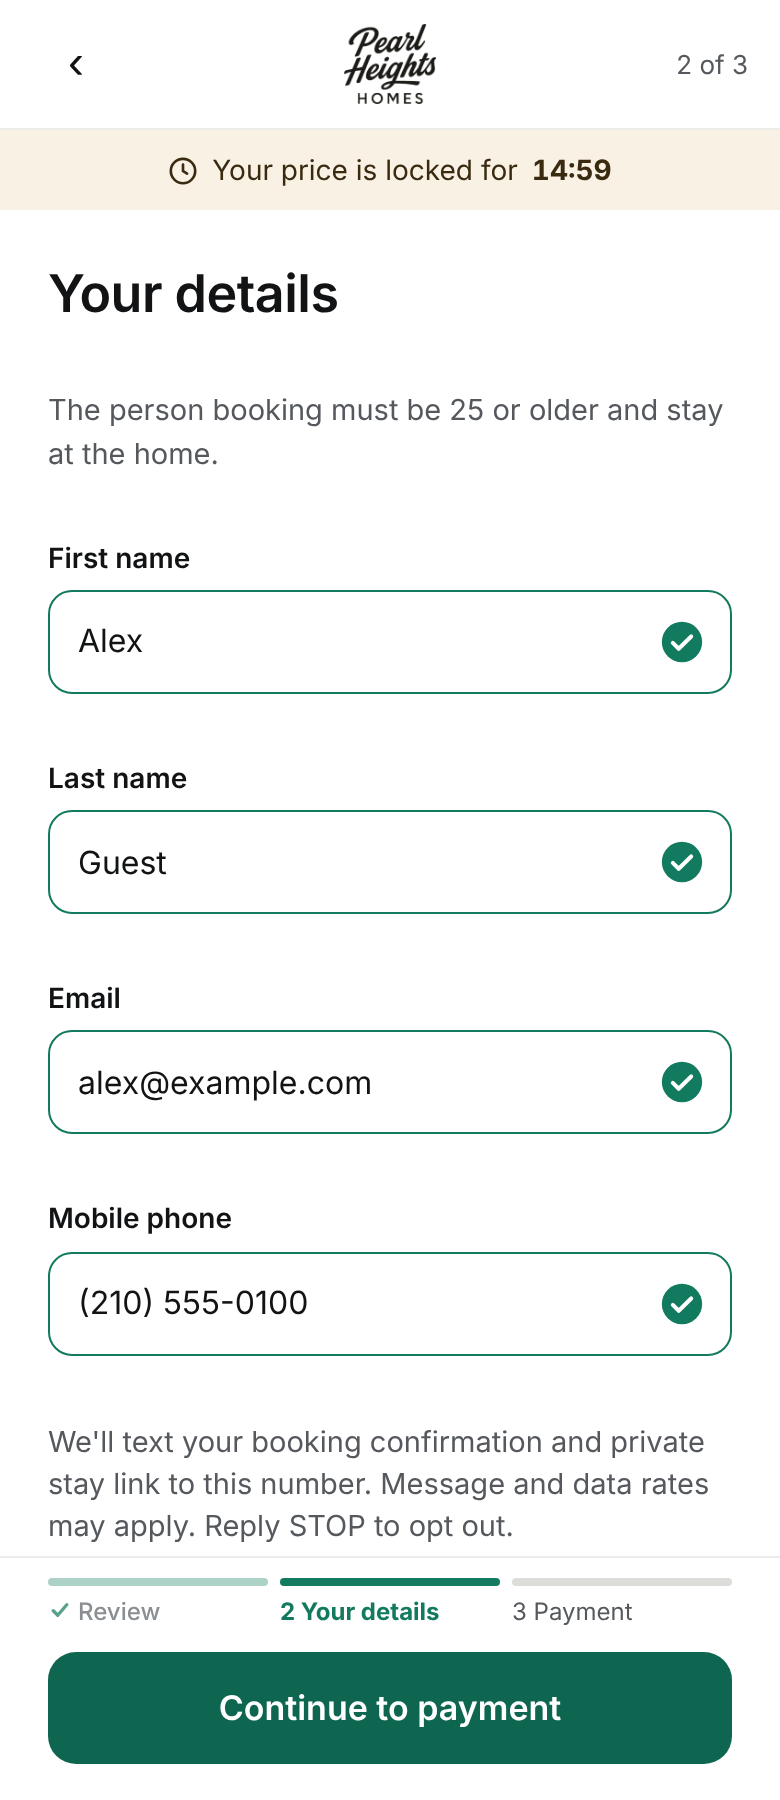
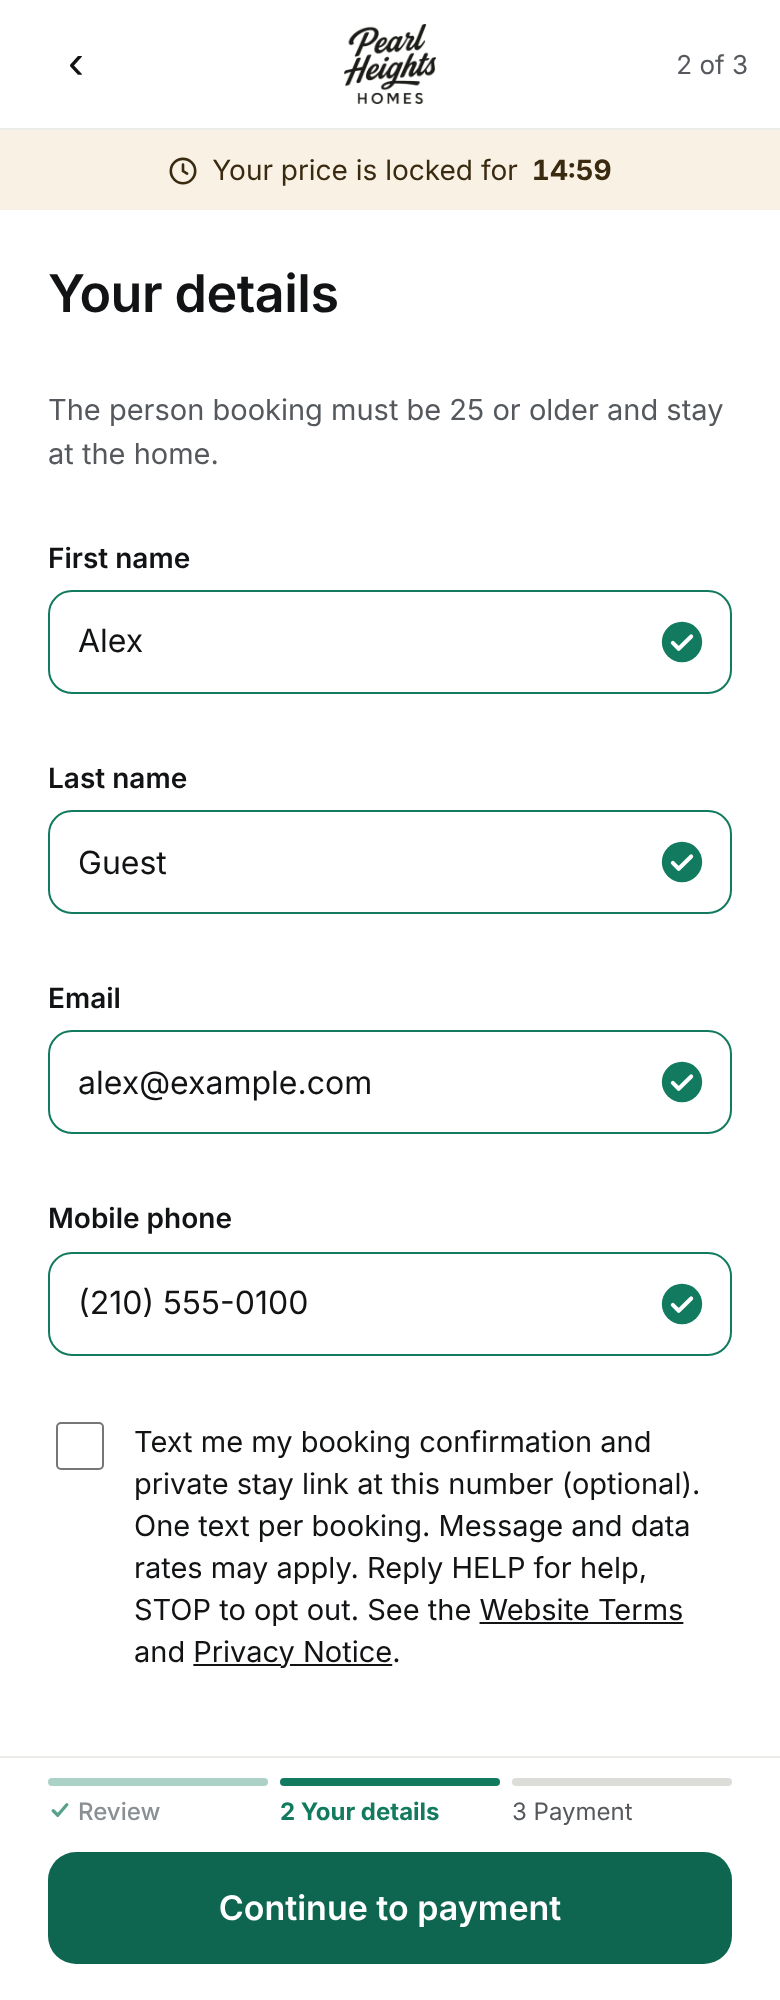
Booking-text consent: unchecked checkbox on the details step; text sent only when ticked; opt-in screenshots (unchecked + checked)
Claude-Session: https://claude.ai/code/session_01ThwDwm9rSEYysYBPnadMwk

diff --git a/app/page.tsx b/app/page.tsx
@@ -74,6 +74,8 @@ export default function Checkout() {
   // opt-out, every email carries an unsubscribe link). Texts stay unchecked: TCPA needs a clear written opt-in.
   const [mktEmail, setMktEmail] = useState(true);
   const [mktSms, setMktSms] = useState(false);
+  // Booking text consent (Twilio toll-free verification, Nov 18): unchecked; the confirmation text goes only to guests who tick it.
+  const [textConfirm, setTextConfirm] = useState(false);
   const [sim, setSim] = useState("none");
   const [err, setErr] = useState("");
   const [busy, setBusy] = useState(false);
@@ -224,7 +226,7 @@ export default function Checkout() {
       if (pm.error || !pm.id) { setBusy(false); setPayErr({ msg: pm.error ?? "Please check your card details.", change: true }); return; }
       paymentMethodId = pm.id;
     }
-    const r = await fetch("/api/checkout", { method: "POST", body: JSON.stringify({ property: home, checkIn: ci, checkOut: co, adults, children, infants, payPlan: quote.plan.split ? "split" : "full", guest, agreed, consentId: CONSENT_ID, marketingEmail: mktEmail, marketingSms: mktSms, acceptedTotal: quote.total, quoteId, attemptKey: crypto.randomUUID(), simulate: sim, paymentMethodId,
+    const r = await fetch("/api/checkout", { method: "POST", body: JSON.stringify({ property: home, checkIn: ci, checkOut: co, adults, children, infants, payPlan: quote.plan.split ? "split" : "full", guest, agreed, consentId: CONSENT_ID, marketingEmail: mktEmail, marketingSms: mktSms, textConfirmation: textConfirm, acceptedTotal: quote.total, quoteId, attemptKey: crypto.randomUUID(), simulate: sim, paymentMethodId,
       analytics: { consent: cookieConsent() === "granted", attribution: attribution(), ...metaBrowserIds(), url: location.href } }) });
     const j = await r.json().catch(() => ({}));
     setBusy(false);
@@ -247,7 +249,7 @@ export default function Checkout() {
 
   function restart() {
     setStep("review"); setCi(null); setCo(null); setQuote(null); setResult(null); setErr(""); setAgreed(false); setPlan("full");
-    setGuest({ firstName: "", lastName: "", email: "", phone: "" }); setMktEmail(true); setMktSms(false); setCalVersion((v) => v + 1);
+    setGuest({ firstName: "", lastName: "", email: "", phone: "" }); setMktEmail(true); setMktSms(false); setTextConfirm(false); setCalVersion((v) => v + 1);
   }
   // Same rules as the submit check; also drives the green check shown in each valid field (Oscar, Nov 17).
   const fieldOk = (k: "firstName" | "lastName" | "email" | "phone") =>
@@ -469,7 +471,8 @@ export default function Checkout() {
                   onChange={(e) => { setGuest({ ...guest, [k]: e.target.value }); if (fieldErr[k]) setFieldErr({ ...fieldErr, [k]: undefined }); }} />
                 {fieldOk(k) && !fieldErr[k] && <svg className="okIc" viewBox="0 0 24 24" width="22" height="22" aria-hidden="true"><circle cx="12" cy="12" r="11" fill="#127A5E" /><path d="m7 12.5 3.2 3.2L17 9" fill="none" stroke="#fff" strokeWidth="2.2" strokeLinecap="round" strokeLinejoin="round" /></svg>}</span>
                 {fieldErr[k] && <span id={k + "-err"} className="err">{fieldErr[k]}</span>}</label>))}
-            <div className="muted">We'll text your booking confirmation and private stay link to this number. Message and data rates may apply. Reply STOP to opt out.</div>
+            <label className="chk" data-optin="booking-text"><input type="checkbox" checked={textConfirm} onChange={(e) => setTextConfirm(e.target.checked)} />
+              <span>Text me my booking confirmation and private stay link at this number (optional). One text per booking. Message and data rates may apply. Reply HELP for help, STOP to opt out. See the <a href={POLICY_LINKS.websiteTerms} target="_blank" rel="noopener">Website Terms</a> and <a href={POLICY_LINKS.privacy} target="_blank" rel="noopener">Privacy Notice</a>.</span></label>
           </>)}
 
           {step === "pay" && quote && (<>

diff --git a/app/api/checkout/route.ts b/app/api/checkout/route.ts
@@ -53,10 +53,11 @@ export async function POST(req: Request) {
     if ((view as { ok?: boolean }).ok) {
       const ref = (view as { bookingRef?: string }).bookingRef ?? bookingRef;
       await afterBooking(req, b, input, q.quote, ref);
-      // Booking confirmation by text (Oscar, Nov 18). Off until GUEST_TEXTS=on + Twilio settings; never blocks.
+      // Booking confirmation by text (Oscar, Nov 18). Only when the guest ticked the box on the details step (Twilio
+      // toll-free verification requires an unchecked consent box). Off until GUEST_TEXTS=on + Twilio settings; never blocks.
       const db = getDb();
       const deadline = (view as { verification?: { deadlineText?: string } }).verification?.deadlineText;
-      if (db && deadline) {
+      if (db && deadline && b.textConfirmation === true) {
         const outcome = await textConfirmation(db, { bookingRef: ref, phone: input.guest.phone, homeName: getProperty(input.property).name,
           dates: shortRange(input.checkIn, input.checkOut), deadline, origin: new URL(req.url).origin }).catch(() => "failed" as const);
         console.info("[sms] booking", ref, outcome);
